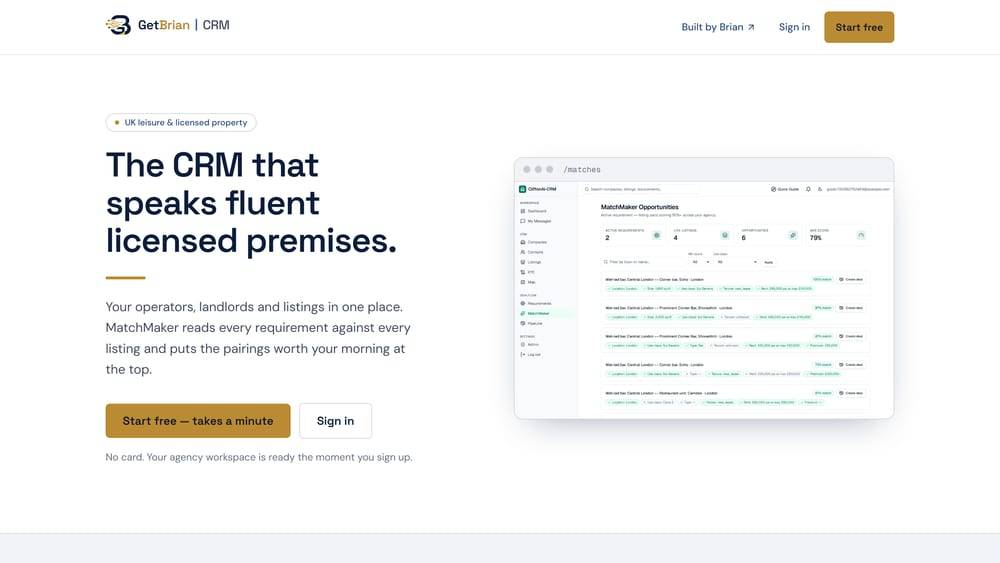
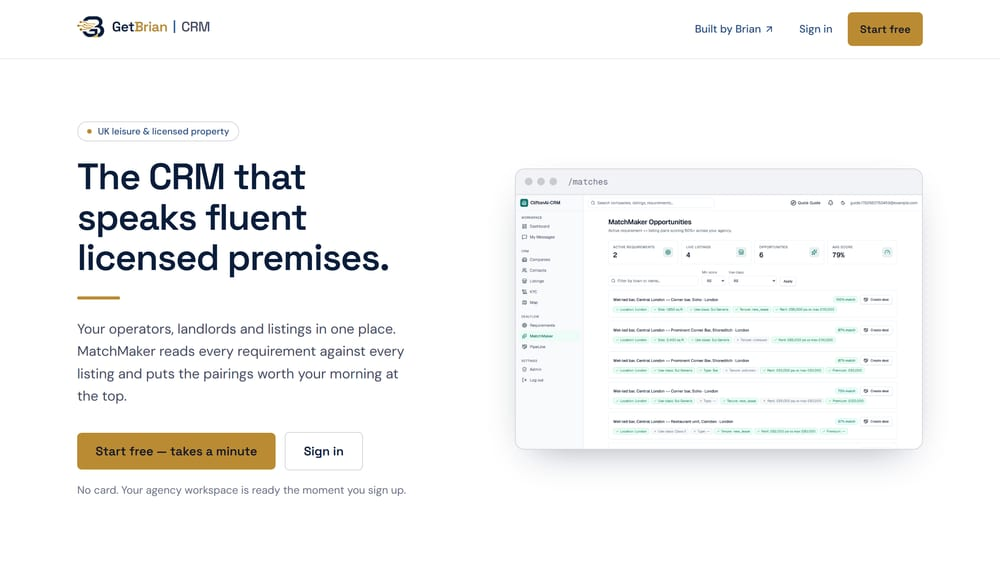
Revise pricing copy, hero line, and product card surfaces
Cards:
- Reverted the CTA from the gold fill back to the glass treatment. The
  tinted copy block now supplies the separation the gold was doing.
- The copy block under each screenshot sits on a new --bg-tint
  (#e9eff9), a light navy tint, so it reads as its own panel rather than
  continuing the white plate above it. Text colours unchanged; measured on
  the tint at 15.3:1 (lockup), 7.8:1 (tagline), 7.5:1 (bullets) and 9.0:1
  (button).
- CRM screenshot re-shot tighter. Its hero ends at y=745 while the shared
  frame captured 788, leaving a dead grey strip along the bottom of the
  card. gen-screenshots.mjs now takes a per-site CAPTURE_HEIGHT override
  (crm: 735) and lets the cover-resize scale back up to 16/9 — trading a
  sliver of width to fill the gap. Bottom rows are now pure white.

Copy:
- Build fee is no longer stated as £1,000 anywhere. It is "very low",
  quoted up front, and the worked example drops it out of the arithmetic
  rather than inventing a number — the recurring saving does not depend
  on it.
- New ownership term: the system becomes the client's outright after three
  years via an agreed handover of code, data and documentation. Added as
  its own pricing card, so the grid goes to four.
- This contradicted three places that claimed immediate outright ownership
  (the Replace and Save pillars, and the positioning paragraph); all three
  now describe the three-year path instead. Left the question of whether
[…]

diff --git a/src/app/pricing-section.tsx b/src/app/pricing-section.tsx
@@ -1,18 +1,22 @@
 import { Reveal } from "./reveal";
 
 /**
- * How Brian charges: a fixed build fee, then half of whatever the client
- * was already paying for the software being replaced — plus an optional
- * profit-share track for launch/growth work. Numbers in the worked example
- * are illustrative and intentionally round.
+ * How Brian charges: a deliberately low build fee, then half of whatever the
+ * client was already paying for the software being replaced, with ownership
+ * transferring after three years. Plus an optional profit-share track for
+ * launch/growth work.
+ *
+ * The build fee is stated as a range rather than a number on purpose — it is
+ * quoted per build. The worked example therefore leaves it out of the
+ * arithmetic and shows only the recurring saving, which does not depend on it.
  */
 const pricingCards = [
   {
     title: "The build",
-    price: "£1,000",
-    note: "fixed, one-off",
+    price: "Very low",
+    note: "one-off, quoted up front",
     description:
-      "Brian designs, builds, and ships the system that replaces your CRM, project board, marketing stack, or supply-chain tool. You own it outright.",
+      "Brian designs, builds, and ships the system that replaces your CRM, project board, marketing stack, or supply-chain tool. Kept deliberately low — the build isn't where Brian makes his money.",
   },
   {
     title: "Ongoing",
@@ -20,6 +24,13 @@ const pricingCards = [
     note: "of what you paid before",
     description:
       "Take whatever your old subscriptions cost. Brian charges half of that, billed monthly, for as long as you use the system. Never more.",
+  },
+  {
+    title: "Ownership",
+    price: "After 3 years",
+    note: "agreed handover",
+    description:
+      "Stay three years and the system becomes yours outright, transferred through an agreed handover — code, data, and the documentation to run it without Brian.",
   },
   {
     title: "Profit share",
@@ -32,10 +43,10 @@ const pricingCards = [
 
 const exampleRows = [
   { label: "Current software spend", value: "£900/month" },
-  { label: "Brian's build fee", value: "£1,000 once" },
+  { label: "Brian's build fee", value: "Very low, one-off" },
   { label: "Brian's ongoing fee", value: "£450/month" },
-  { label: "Saved in year one", value: "£4,400" },
-  { label: "Saved every year after", value: "£5,400" },
+  { label: "Saved every year", value: "£5,400" },
+  { label: "System becomes yours", value: "After 3 years" },
 ];
 
 export function PricingSection() {
@@ -47,13 +58,13 @@ export function PricingSection() {
             How Brian charges
           </h2>
           <p className="mt-4 text-lg leading-relaxed text-fg-muted">
-            One fixed fee to build it. Then half of what you were already
-            paying — forever. No day-rate surprises, no seat licences that
-            creep up every renewal.
+            A very low fee to build it. Then half of what you were already
+            paying. Stay three years and the system is yours outright. No
+            day-rate surprises, no seat licences that creep up every renewal.
           </p>
         </Reveal>
 
-        <div className="mt-12 grid gap-6 sm:grid-cols-3">
+        <div className="mt-12 grid gap-6 sm:grid-cols-2 lg:grid-cols-4">
           {pricingCards.map((card, i) => (
             <Reveal key={card.title} delay={i * 100}>
               <div className="glass glass-hover flex h-full flex-col rounded-2xl p-6">

diff --git a/src/app/page.tsx b/src/app/page.tsx
@@ -11,7 +11,7 @@ const pillars = [
   {
     title: "Replace",
     description:
-      "Swap your CRM, project management, supply-chain, or marketing stack for a system you own outright. No rip-and-replace migration drama.",
+      "Swap your CRM, project management, supply-chain, or marketing stack for a system built around you — and yours outright after three years. No rip-and-replace migration drama.",
   },
   {
     title: "Personalise",
@@ -21,7 +21,7 @@ const pillars = [
   {
     title: "Save",
     description:
-      "You stop paying full subscription price the day it ships. Half of what you paid before, forever.",
+      "You stop paying full subscription price the day it ships. Half of what you paid before — and after three years the system is yours.",
   },
 ];
 
@@ -147,17 +147,23 @@ export default function Home() {
               <span className="glass inline-flex items-center gap-2 rounded-full px-4 py-1.5 text-xs font-medium tracking-wide text-fg-muted uppercase">
                 If you see Brian, get him
               </span>
-              <h1 className="mt-6 text-balance font-heading text-4xl font-semibold tracking-tight text-fg sm:text-6xl">
-                The AI bloke who{" "}
+              <h1 className="mt-6 text-balance font-heading text-4xl font-semibold tracking-tight text-fg sm:text-5xl">
+                The helpful AI bloke who{" "}
                 <span className="brand-gradient-text">
-                  replaces your software stack
+                  replaces your software pain with simplicity and logic
                 </span>
               </h1>
-              <p className="mt-6 max-w-2xl text-balance text-lg leading-relaxed text-fg-muted">
+              {/* The name's origin, kept verbal — the logo does not spell this
+                  out typographically. See the brand book's visual identity
+                  chapter. */}
+              <p className="mt-5 font-heading text-lg font-semibold tracking-tight text-brand-navy-soft">
+                Brian puts AI in Brain.
+              </p>
+              <p className="mt-5 max-w-2xl text-balance text-lg leading-relaxed text-fg-muted">
                 Brian builds the CRM, project tracker, marketing engine, and
-                supply-chain tools your business rents every month — then
-                charges £1,000 to build it, and half of what you&apos;re
-                already paying, forever.
+                supply-chain tools your business rents every month — for a very
+                low build fee, then half of what you&apos;re already paying.
+                Stay three years and it&apos;s yours outright.
               </p>
               <div className="mt-10 flex w-full flex-col items-center justify-center gap-4 sm:flex-row lg:w-auto lg:justify-start">
                 <a
@@ -201,8 +207,8 @@ export default function Home() {
               <p className="mt-4 text-lg leading-relaxed text-fg-muted">
                 Most small businesses don&apos;t need another login. They
                 need the CRM, the project board, the marketing engine built
-                around how they actually work — and owned outright, not
-                rented.
+                around how they actually work — on a path to owning it, not
+                renting it forever.
               </p>
             </Reveal>
             <div className="mt-14 grid gap-6 sm:grid-cols-3">

diff --git a/src/app/products-section.tsx b/src/app/products-section.tsx
@@ -66,7 +66,10 @@ function Screenshot({ product, sizes }: { product: Product; sizes: string }) {
   );
 }
 
-/** The one call to action per card. Gold so it carries against the white block. */
+/**
+ * The one call to action per card. Back to the glass treatment — the tinted
+ * copy block behind it now supplies the separation the gold fill was doing.
+ */
 function VisitButton({
   href,
   children,
@@ -79,7 +82,7 @@ function VisitButton({
   return (
     <a
       href={href}
-      className={`inline-flex min-h-11 items-center justify-center gap-1.5 rounded-full bg-brand-gold px-5 text-sm font-semibold text-fg transition-colors duration-200 hover:bg-brand-gold-hover cursor-pointer ${className}`}
+      className={`glass glass-hover inline-flex min-h-11 items-center justify-center gap-1.5 rounded-full bg-bg px-5 text-sm font-semibold text-brand-navy-soft cursor-pointer ${className}`}
     >
       {children}
       <svg
@@ -110,7 +113,7 @@ function ProductCard({ product }: { product: Product }) {
       className="glass group relative flex h-full flex-col overflow-hidden rounded-2xl border-t-[3px]"
     >
       <Screenshot product={product} sizes="(max-width: 640px) 100vw, 50vw" />
-      <div className="flex flex-1 flex-col bg-bg p-6 sm:p-7">
+      <div className="flex flex-1 flex-col bg-bg-tint p-6 sm:p-7">
         <div className="flex flex-wrap items-center gap-2.5">
           <ProductLockup product={product} />
           {product.status === "in-development" && <StatusBadge />}
@@ -144,7 +147,7 @@ function ClientRow({ product }: { product: Product }) {
       <div className="sm:w-72 sm:shrink-0 sm:border-r sm:border-border">
         <Screenshot product={product} sizes="(max-width: 640px) 100vw, 288px" />
       </div>
-      <div className="flex flex-1 flex-col bg-bg p-6 sm:p-7">
+      <div className="flex flex-1 flex-col bg-bg-tint p-6 sm:p-7">
         <div className="flex flex-wrap items-center gap-2.5">
           <h3 className="font-heading text-lg font-semibold text-fg">
             {product.name}

diff --git a/src/app/layout.tsx b/src/app/layout.tsx
@@ -31,7 +31,7 @@ export const metadata: Metadata = {
   alternates: { canonical: "/" },
   title: "GetBrian — AI & Automation for UK Small Business",
   description:
-    "Brian builds AI-powered apps and workflows that replace the CRM, project management, supply chain, and marketing software you're renting — for £1,000 plus half your current subscription cost. If you see Brian, get him.",
+    "Brian builds AI-powered apps and workflows that replace the CRM, project management, supply chain, and marketing software you're renting — for a very low build fee plus half your current subscription cost, and it's yours outright after three years. If you see Brian, get him.",
   icons: {
     icon: [
       { url: "/favicon-32.png", sizes: "32x32", type: "image/png" },
@@ -42,7 +42,7 @@ export const metadata: Metadata = {
   openGraph: {
     title: "GetBrian — AI & Automation for UK Small Business",
     description:
-      "If you see Brian, get him. He replaces the software you rent with software you own — for £1,000 plus half of what you're already paying.",
+      "If you see Brian, get him. He replaces the software you rent with software you own — for a very low build fee plus half of what you're already paying.",
     url: siteUrl,
     siteName: "GetBrian",
     type: "website",

diff --git a/src/app/globals.css b/src/app/globals.css
@@ -3,6 +3,10 @@
 :root {
   --bg: #ffffff;
   --bg-panel: #f3f4f6;
+  /* Navy-tinted surface for the product cards' copy block, so it reads as a
+     distinct panel under the screenshot plate rather than continuing it.
+     Body text on this measures 7.4:1 and navy-soft 7.8:1. */
+  --bg-tint: #e9eff9;
   --bg-elevated: rgba(255, 255, 255, 0.8);
   --bg-card: rgba(255, 255, 255, 0.72);
   --border: rgba(20, 23, 43, 0.1);
@@ -35,6 +39,7 @@
 @theme inline {
   --color-bg: var(--bg);
   --color-bg-panel: var(--bg-panel);
+  --color-bg-tint: var(--bg-tint);
   --color-bg-elevated: var(--bg-elevated);
   --color-bg-card: var(--bg-card);
   --color-border: var(--border);
